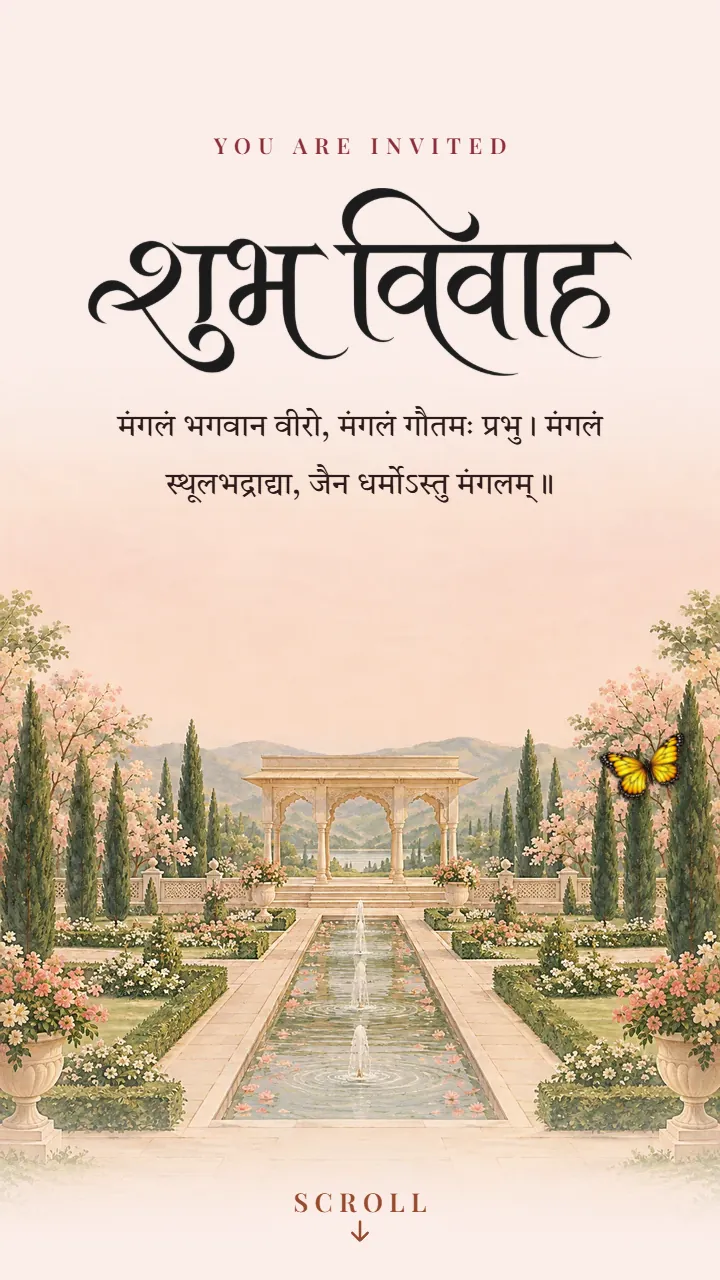
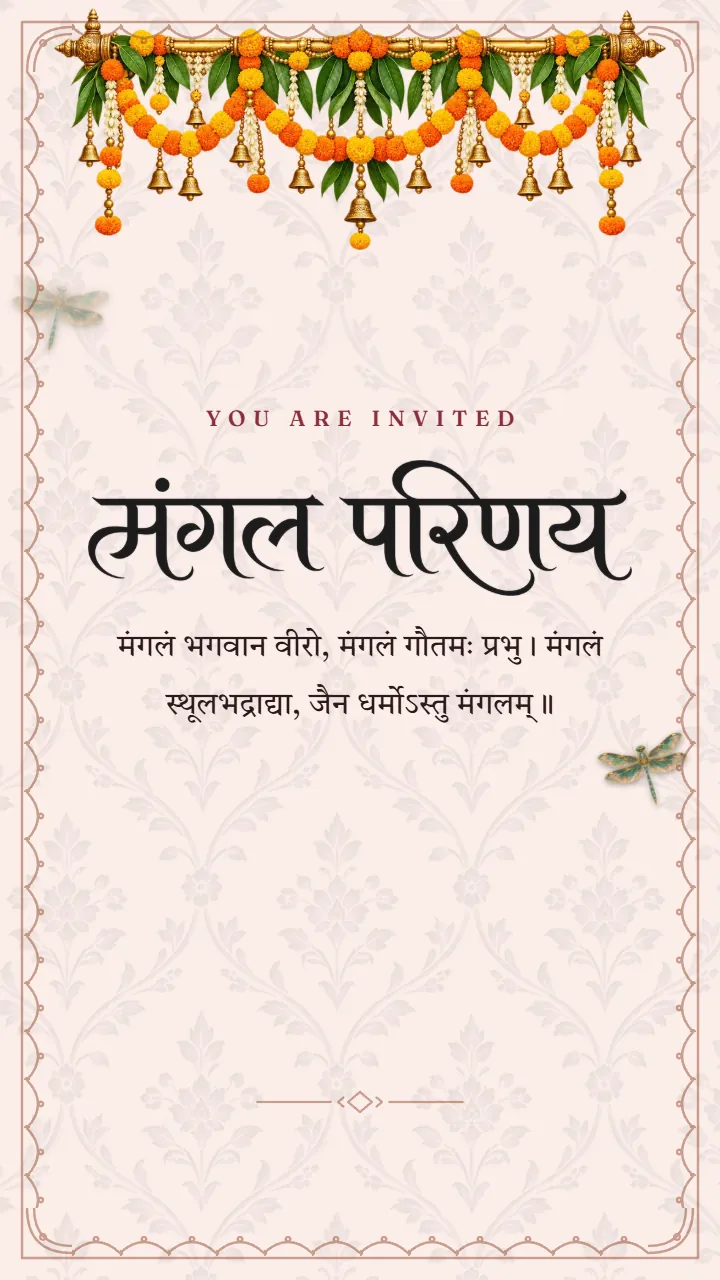
style(traditions): new look for Lotus Blush
No painting any more: the blush ground is woven with the jaal inside a scalloped line frame in the card's terracotta (it had no frame), with the Jain toran at its head. The word-mark is Mangal Parinay. Kalash and lotus stand in the corners with the ahimsa hand above the names. Lotus petals as before, and dragonflies in place of yellow butterflies, as over a lotus pond; roses part the sections. The cover is the floral gatefold with its satin bow (ribbon-seal) instead of the breeze, and the names are in Fraunces (classic).

Gallery preview remade. Saved cards keep the look they were saved with.

diff --git a/lib/presets.ts b/lib/presets.ts
@@ -632,25 +632,32 @@ const PRESETS: readonly Preset[] = [
   {
     id: "lotus-blush",
     name: "Lotus Blush",
-    description: "Soft blush, lotuses, the ahimsa hand, petals and butterflies.",
+    description: "Blush in a scalloped frame, the toran, lotuses, the ahimsa hand and a jaal weave.",
     tradition: "jain",
     settings: {
       paletteId: "blush",
       textPairId: "ivoryRose",
       accentOverride: null,
-      fontPairId: "romantic",
+      fontPairId: "classic",
       density: "comfortable",
-      borderStyle: "none",
+      /* A scalloped line in the card's terracotta: lotuses lead, not roses. */
+      borderStyle: "scallopedFrame",
       decorMotion: "float",
       decorIntensity: "subtle",
+      /* On, so something flies; what flies is dragonflies, as over a lotus pond. */
       butterflies: "yellow",
+      flying: "dragonflies",
       leaves: false,
       petals: "both",
       petalFlower: "lotus",
-      coverAnimation: "petal-dust",
-      /* No toran: the top of this one is left to the hand and the word-mark. */
-      ornaments: ["ahimsaHand", "lotus"],
-      calligraphy: "jainShubhVivah",
+      /* No painting: the jaal is the ground. */
+      royalTexture: true,
+      royalTexturePattern: "jaal",
+      /* The floral gatefold with its satin bow, in blush and white roses. */
+      coverAnimation: "ribbon-seal",
+      /* The toran at the head, the hand above the names, kalash and lotus in the corners. */
+      ornaments: ["tornGate", "ahimsaHand", "kalash", "lotus"],
+      calligraphy: "jainMangalParinay",
       greetingIfNone: "jaiJinendra",
       blessingIfNone: "mangalBlessing",
     },

diff --git a/templates/lotus-blush/config.ts b/templates/lotus-blush/config.ts
@@ -5,14 +5,16 @@ import type { TemplateConfig } from "@/templates/types";
 /**
  * The "lotus-blush" preset as a template: its look from lib/presets.ts, and
  * the colourways and type pairs a host may change it to. See presetTemplate.
+ *
+ * No painting: the jaal is the ground inside the scalloped frame, and roses
+ * part its sections.
  */
 export const LOTUS_BLUSH: TemplateConfig = presetTemplate({
   presetId: "lotus-blush",
   preview,
   ownPaletteLabel: "Blush",
-  palettes: [
-    plain("ivory", "cream"),
-    plain("sand", "sand"),
-  ],
-  fontPairs: ["royal", "elegant"],
+  palettes: [plain("ivory", "cream"), plain("sand", "sand")],
+  fontPairs: ["romantic", "elegant"],
+  scene: "off",
+  divider: "rose",
 });
